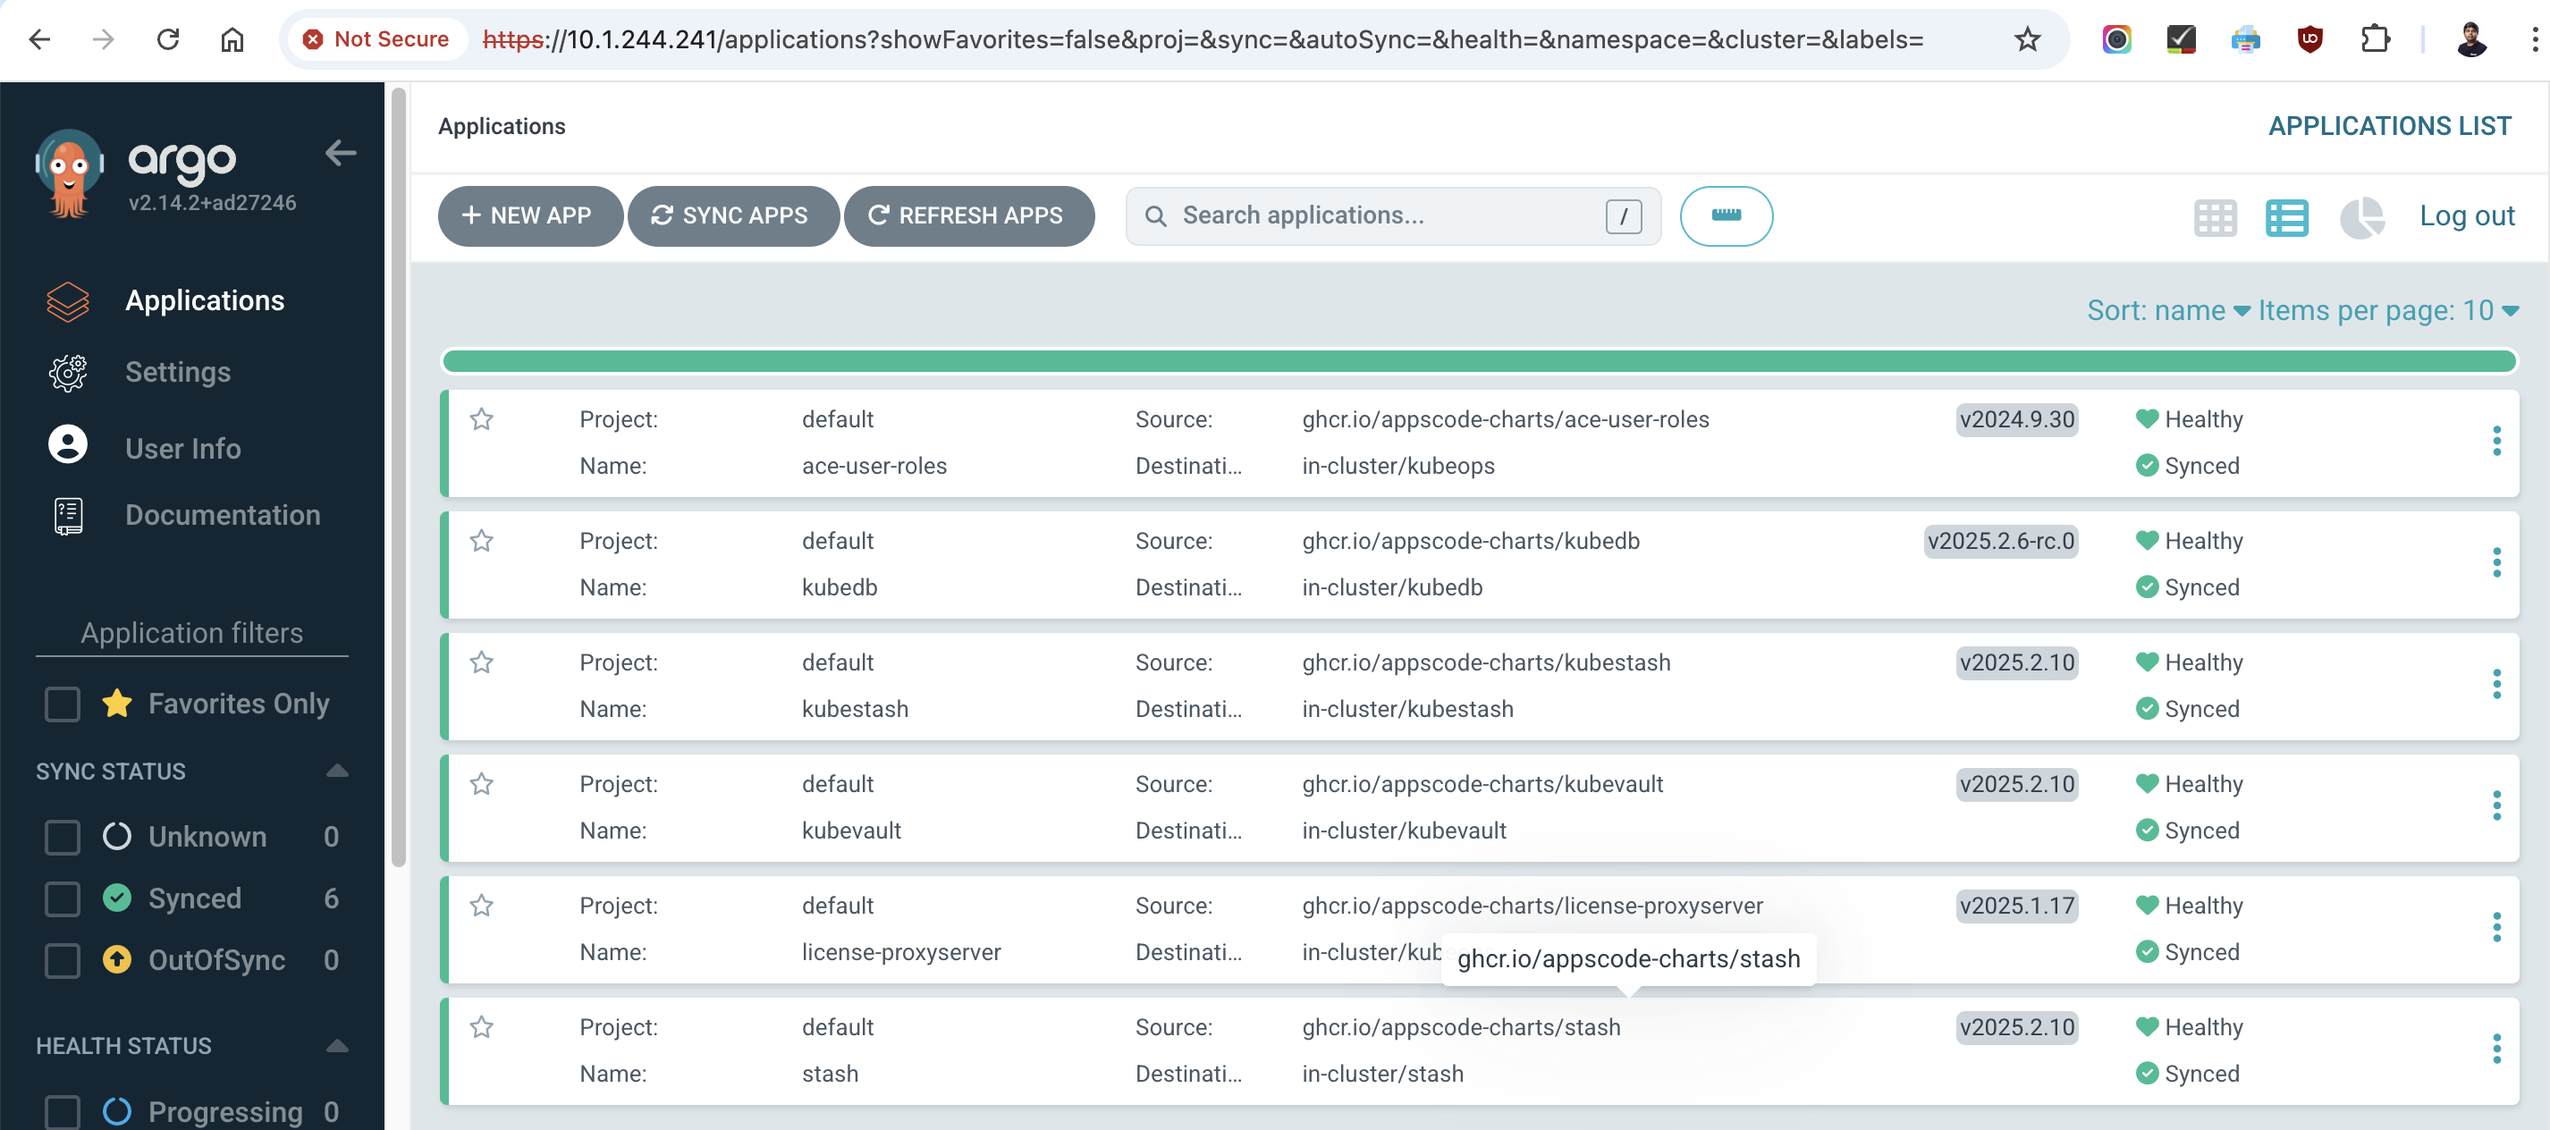
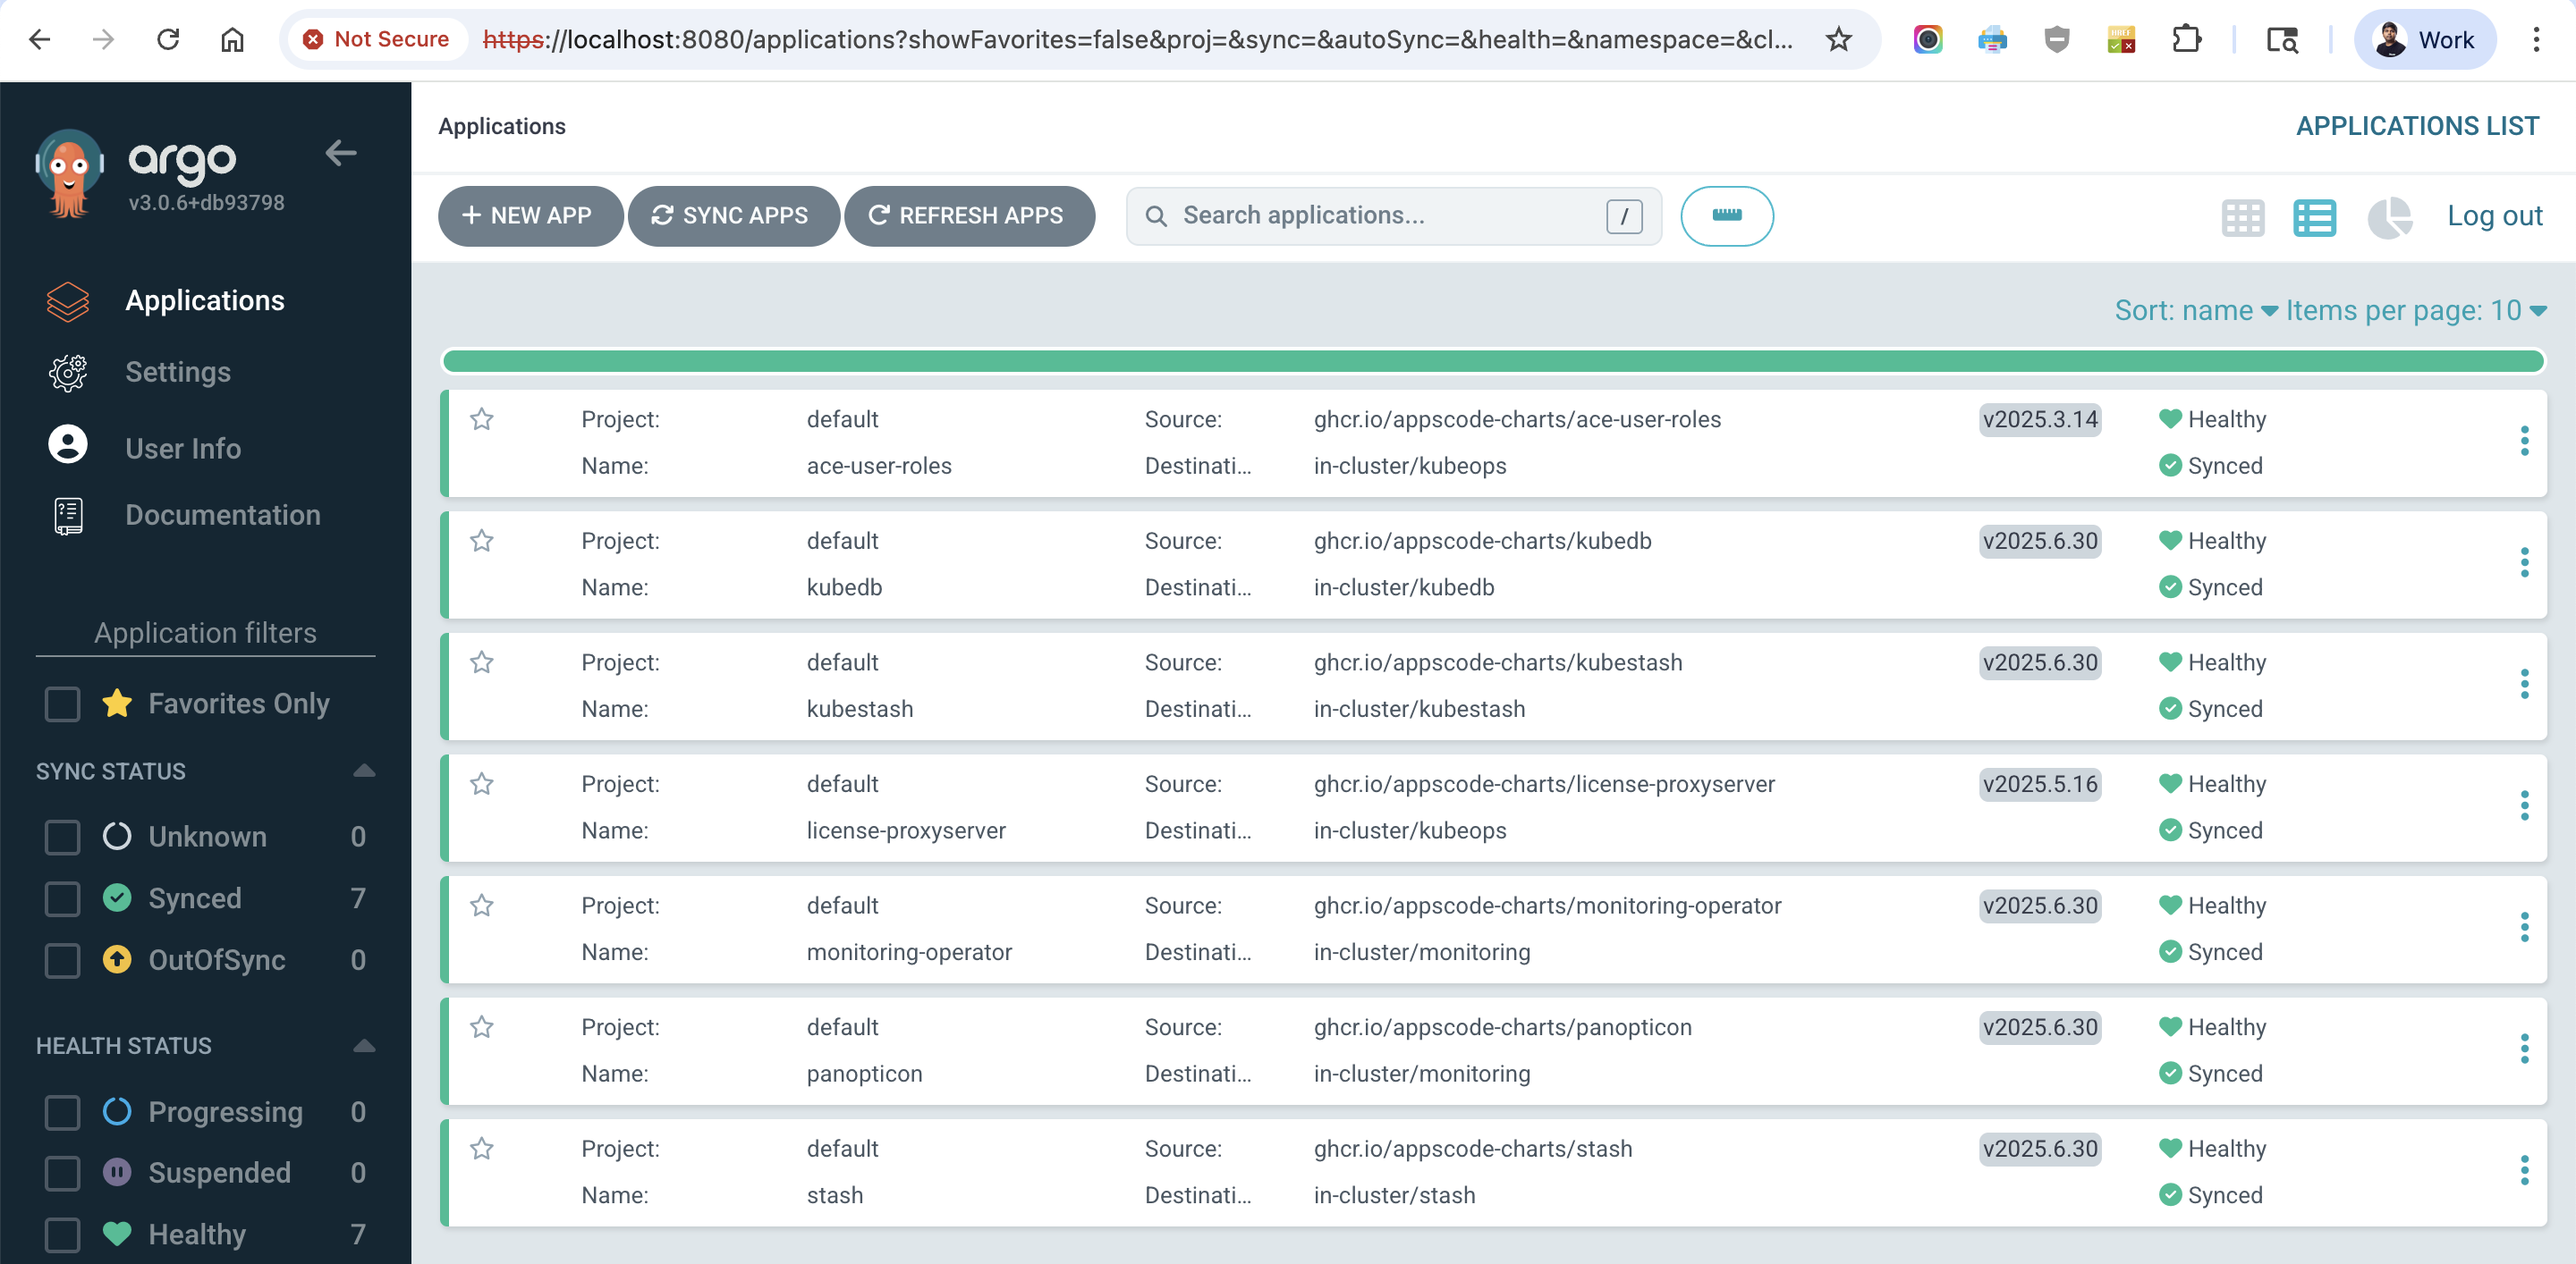
Update readme

Changed region(s): [[0.0, 0.0, 1.0, 1.0], [0.8738, 0.0926, 0.9986, 0.1234], [0.9986, 0.0, 1.0, 0.0309]]

diff --git a/argocd/helm/README.md b/argocd/helm/README.md
@@ -3,3 +3,11 @@
 <img src="/argocd/helm/argocd-helm-app.png">
 
 - https://argo-cd.readthedocs.io/en/stable/user-guide/helm/
+
+You should install/update the following charts first:
+
+- ace-user-roles
+- license-proxyserver
+
+For `license-proxyserver`, you need to configure a token. To get the token, generate an online license-proxyserer from the url:
+`https://appscode.com/billing/{{org}}/license-proxy-server` . Then use that token.
